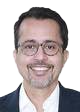
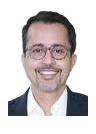
sync colinha: numero da caixa preenchida em azul-marinho do Dr. Elton
Claude-Session: https://claude.ai/code/session_01CqF9taa6tb44FpH3decT5q

diff --git a/colinha/colinha-core.js b/colinha/colinha-core.js
@@ -25,9 +25,16 @@ export const CANDIDATOS = {
     razao: 'ELEIÇÃO 2026 ELTON ALVES RIBEIRO DE CARVALHO JUNIOR DEPUTADO FEDERAL',
     cnpj: '68.237.359/0001-10',
     foto: 'elton', // fotos/elton.jpg — foto oficial da campanha, nao vem do TSE
-    // Sem governador pre-preenchido. A peca impressa dele traz o Tarcisio (10),
-    // mas na tela o campo abre VAZIO: o voto de governador e do eleitor, e
-    // nem travado (`fixos`) nem sugerido (`sugestao`) cabia aqui.
+    // Governador (TARCISIO, 10) e os DOIS votos de senador (GUILHERME DERRITE
+    // 111 no 1o, ANDRE DO PRADO 222 no 2o) abrem PREENCHIDOS, como na peca
+    // impressa — mas por `sugestao`, nao por `fixos`: o campo entra no estado,
+    // aparece editavel e o eleitor pode trocar ou apagar.
+    //
+    // A trava do 222 saiu em 08/09/2026 (era `fixos: { senador1: '222' }`) e
+    // em 10/09 ele voltou como sugestao, agora no 2o voto. Com os dois slots
+    // de senador no estado, buscarGlobal oferece os dois e bgPreencher
+    // (app.js) manda o segundo resultado para o senador2 sozinho.
+    sugestao: { senador1: '111', senador2: '222', governador: '10' },
   },
   // Numero confirmado pelo santinho impresso 7x10 da campanha (15/08/2026).
   'colinhavirtual.dreltonai.com.br': {
@@ -212,6 +219,41 @@ export const SANTINHOS = {
     // votos que sobravam para ele decidir.
     fixos: { federal: '4412' },
   },
+  lindoso: {
+    nome: 'DR. MÁRCIO LINDOSO', cargo: 7, numero: '44777', partido: 'UNIÃO',
+    tema: 'santinho', rotulo: 'Deputado estadual',
+    // Amarelo do 44777 na arte (#f8cf07, medido na pagina 1 do PDF). O azul
+    // da caixa do nome (#263983, a cor mais presente da peca) fica de fora:
+    // sobre o navy desta tela ele da 1,52:1 e a caixa sumiria no fundo — o
+    // mesmo motivo que trocou a cor da Regina. O amarelo da 10,62:1, na
+    // mesma faixa do lima do Dr. Elton (10,55) e do ambar do Rogerio (9,36).
+    cor: '#f8cf07',
+    // Foto do TSE (SQ_CANDIDATO 250002533813). Nao ha arte de campanha
+    // separada para ele, como nao ha para o Leandro e o Anistaldo.
+    foto: '250002533813',
+    // Subdominio proprio em drelton4412.com.br, como os outros parceiros —
+    // nunca em dreltonai.com.br, que passa pela Hostinger.
+    hosts: ['lindoso.drelton4412.com.br', 'www.lindoso.drelton4412.com.br'],
+    // Marcacao legal da lateral da peca (Lei 9.504/97, art. 38 §1o). Aqui o
+    // "CNPJ Candidato" e o da campanha do Dr. Elton (68.237.359/0001-10), que
+    // contratou a impressao — nao o da campanha do parceiro, e diferente do
+    // que vem nas pecas do Leandro, do Rogerio e do Anistaldo (a do Tozi).
+    //
+    // A tiragem ("30.000 unidades") fica de fora pelo mesmo motivo do
+    // Leandro: ela conta exemplares de impresso, e uma tela nao tem exemplar.
+    legal: [
+      'CNPJ Candidato: 68.237.359/0001-10',
+      'CNPJ Contratado: 10.386.377/0001-84',
+    ],
+    // O verso da peca traz o Dr. Elton impresso no federal: FIXO.
+    fixos: { federal: '4412' },
+    // O governador tambem vem impresso (TARCISIO DE FREITAS, 10), mas como
+    // SUGESTAO, nao como fixo: e a mesma decisao de 08/09 na colinha do Dr.
+    // Elton — o campo abre preenchido igual ao papel e o eleitor pode trocar.
+    // Senador (1o e 2o voto) e presidente saem em branco na peca e ficam
+    // livres aqui.
+    sugestao: { governador: '10' },
+  },
   tozi: {
     nome: 'PROFESSOR TOZI', cargo: 7, numero: '44447', partido: 'UNIÃO',
     tema: 'santinho', rotulo: 'Deputado estadual',
@@ -242,6 +284,34 @@ export const SANTINHOS = {
       'CNPJ Contratado: 10.386.377/0001-84',
     ],
     fixos: { federal: '4412' },
+  },
+  // A MESMA peca do Tozi, sem o Dr. Elton impresso. Existe porque a de cima
+  // e conjunta: nela o federal ja vem travado no 4412, e havia publico para
+  // quem o Tozi e o unico voto que a campanha dele pede — os outros cinco
+  // cargos ficam com o eleitor.
+  //
+  // Sem entrada em CANDIDATOS e sem link em lugar nenhum: quem chega aqui
+  // recebeu o endereco. A pagina de /c/ que o build gera ja sai com
+  // `robots: noindex`, e o subdominio abaixo nao aparece em nenhum menu do
+  // site do Tozi.
+  tozisolo: {
+    nome: 'PROFESSOR TOZI', cargo: 7, numero: '44447', partido: 'UNIÃO',
+    tema: 'santinho', rotulo: 'Deputado estadual',
+    cor: '#0057c3', // o mesmo azul da peca dele
+    foto: 'tozi',
+    // Subdominio no dominio DELE, como manda o padrao das outras pecas: cada
+    // colinha vive no dominio da campanha que a distribui. Precisa nascer no
+    // cPanel da conta do Tozi (br856) com Document Root em public_html/colinha
+    // — a mesma pasta que o site ja publica.
+    hosts: ['colinha.proftozi44447.com.br', 'www.colinha.proftozi44447.com.br'],
+    // So "CNPJ Candidato", como no da Regina: o "Contratado" e o da grafica
+    // que imprime, e esta peca nao veio de impresso nenhum — nasceu como
+    // link. Inventar um contratado seria afirmar contratacao que ninguem fez.
+    legal: [
+      'CNPJ Candidato: 68.283.009/0001-90',
+    ],
+    // SEM `fixos`: e o ponto desta entrada. So o campo do proprio Tozi trava;
+    // federal, senadores, governador e presidente ficam em branco.
   },
   dulce: {
     nome: 'DULCE RITA', cargo: 7, numero: '44400', partido: 'UNIÃO',

diff --git a/colinha/imagem.js b/colinha/imagem.js
@@ -82,6 +82,7 @@ export const TEMAS = {
     // dele, que vem da config (config.cor) — e o unico eixo que muda de uma
     // peca para a outra.
     destaque: '#cddc00',
+    digitoTxt: '#13284a', // algarismo no marinho do Dr. Elton (14/09/2026), igual ao --marinho do CSS
     tique: '#9dc23c', // os tiques soltos no fundo saem num lima mais fechado
     semSelo: true, // a peca 9x5 nao tem adesivo redondo
     legalDireita: true, // a marcacao legal virada fica na lateral direita
@@ -990,7 +991,7 @@ function caixasDoSlot(ctx, t, slot, y, cor, x0Ref = S.margem, fimRef = REF_L - S
     ctx.fillStyle = digito ? cor : t.caixa
     ctx.fill()
     if (digito) {
-      ctx.fillStyle = '#ffffff'
+      ctx.fillStyle = t.digitoTxt
       ctx.font = fonte(t, 900, SEMI, corpo)
       const md = ctx.measureText(digito)
       const meio = (md.actualBoundingBoxAscent - md.actualBoundingBoxDescent) / 2
@@ -1282,10 +1283,13 @@ async function desenharSantinho(colinha, config, t, fotos) {
 
   // Recortes das fotos dos travados, se existirem no disco. Ausencia vira
   // null e fotoRedonda cai na foto quadrada.
+  // ?v=: a HostGator serve fotos/ com max-age de 7 dias, e F5 nao rebaixa
+  // imagem pedida por script. Mexeu num recorte, sobe o numero — senao quem
+  // ja abriu a colinha segue salvando o antigo por uma semana.
   const recortes = new Map(await Promise.all(
     colinha
       .filter((s) => s.travado && s.foto)
-      .map(async (s) => [s.id, await carregarArquivo(`fotos/recorte-${s.foto}.png`)]),
+      .map(async (s) => [s.id, await carregarArquivo(`fotos/recorte-${s.foto}.png?v=2`)]),
   ))
 
   // MEDE antes de pintar: a peca de referencia tem dois travados, e a folha

diff --git a/colinha/style.css b/colinha/style.css
@@ -1083,7 +1083,7 @@ body[data-tema="santinho"] {
      santinho leva a cor dele (--cor-parceiro, posta pela config em app.js) —
      na peca do Leandro e o mesmo lima, na do Rogerio e ambar. */
   --cx-travado: var(--limao);
-  --cx-travado-txt: #ffffff;
+  --cx-travado-txt: var(--marinho);
   color: #fff;
   background-color: #0a223e;
   /* O MESMO pattern oficial do topo (manual ID 26 ELTON p.21), na versao
@@ -1109,8 +1109,9 @@ body[data-tema="santinho"] .rotulo > span:first-child::after { color: #c3d3e8; }
 body[data-tema="santinho"] .nome { color: #fff; }
 body[data-tema="santinho"] :is(.rodape, .legal, .carregando) { color: #b4c6de; }
 
-/* Algarismo branco dentro do lima, como no impresso. */
-body[data-tema="santinho"] .digito.preenchido { color: #fff; }
+/* Algarismo no azul-marinho do Dr. Elton dentro da caixa (pedido de 14/09/2026;
+   o impresso traz branco). */
+body[data-tema="santinho"] .digito.preenchido { color: var(--marinho); }
 /* O estado de erro pinta a caixa de rosa claro: ali o branco sumiria. */
 body[data-tema="santinho"] .campo.tem-erro .digito.preenchido { color: var(--erro); }
 
